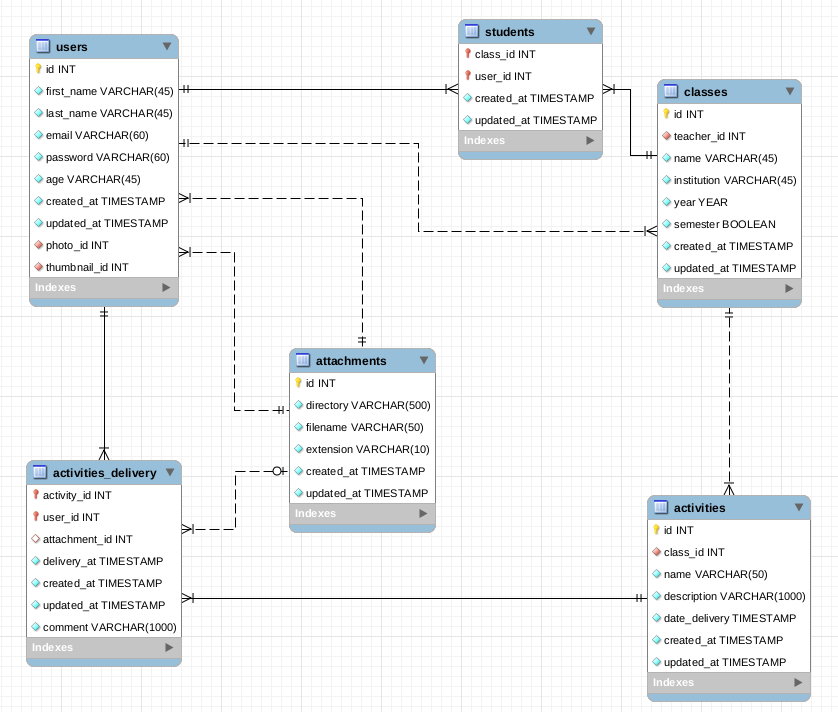
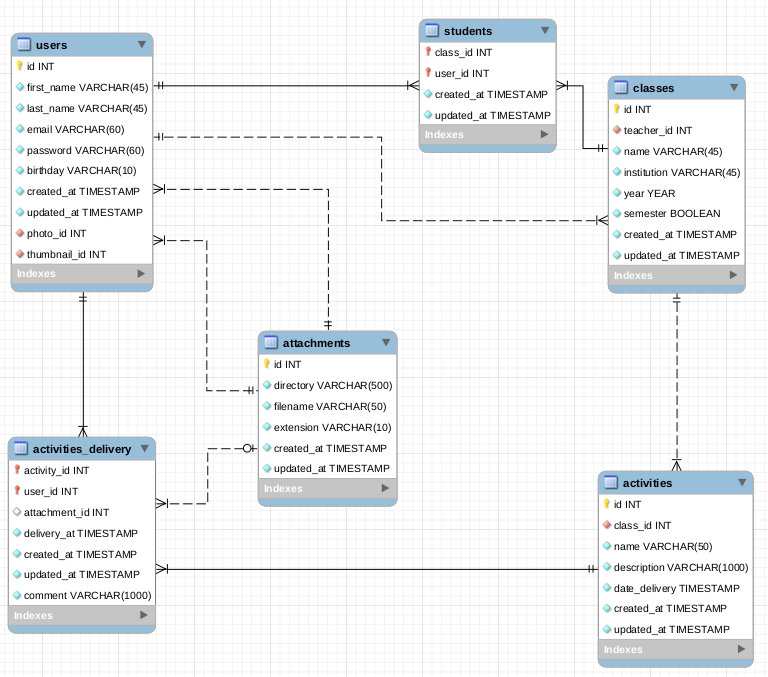
Alterado estrutura do User Alterado a documentação MER Foi alterado o atributo Age(idade) do User(usuario) para Birthday(data de nascimento), para melhor adequar ao front do sistema Foi implementado em UserDAO a função update Reorganizado os documentos no documentation

diff --git a/src/model/bean/User.php b/src/model/bean/User.php
@@ -9,19 +9,19 @@
     private $lastName;
     private $email;
     private $password;   // Nao sei se a senha deve ficar aqui !!!!
-    private $age;
+    private $birthday;   // Format dd/mm/aaaa Ex: 03/10/1997 -> 03 de outubro de 1997
     private $created_at; // Object Timestamp
     private $updated_at; // Object Timestamp
     private $photo;      // Object Attachment -> Profile Photo
     private $thumbnail;  // Object Attachment -> Low resolution profile photo
 
-    public function __construct($id , $firstName , $lastName , $email , $password , $age , $created_at , $updated_at , $photo , $thumbnail) {
+    public function __construct($id , $firstName , $lastName , $email , $password , $birthday , $created_at , $updated_at , $photo , $thumbnail) {
       $this->setId($id);
       $this->setFirstName($firstName);
       $this->setLastName($lastName);
       $this->setEmail($email);
       $this->setPassword($password);
-      $this->setAge($age);
+      $this->setBirthday($birthday);
       $this->setCreated_at();
       $this->setUpdated_at();
       $this->setPhoto($photo);
@@ -35,11 +35,12 @@
       $this->setLastName($lastName);
       $this->setEmail($email);
       $this->setPassword($password);
-      $this->setAge($age);
+      $this->setBirthday($age);
       $this->setCreated_at();
       $this->setUpdated_at();
 
-      $this->photo = new Attachment(ProfileAttachmentManager::PATH_PROFILE_PHOTO , "default" , "png");
+      $this->photo     = new Attachment(ProfileAttachmentManager::PATH_PROFILE_PHOTO     , "default" , "png");
+      $this->thumbnail = new Attachment(ProfileAttachmentManager::PATH_PROFILE_THUMBNAIL , "default" , "png");
     }
     public function __construct($name, $email, $password){
       $this->setFirstName($name);
@@ -48,7 +49,10 @@
       $this->setPassword($password);
       $this->setCreated_at();
       $this->setUpdated_at();
-      $this->setAge(0);
+      $this->setBirthday(0);
+
+      $this->photo     = new Attachment(ProfileAttachmentManager::PATH_PROFILE_PHOTO     , "default" , "png");
+      $this->thumbnail = new Attachment(ProfileAttachmentManager::PATH_PROFILE_THUMBNAIL , "default" , "png");
     }
 
     public function changePhoto($tmp_photo) {
@@ -96,16 +100,12 @@
       $this->password = $password;
     }
 
-    public function getAge() {
-      return $this->age;
+    public function getBirthday() {
+      return $this->birthday;
     }
 
-    public function setAge($age) {
-      if ($age < 0 | $age >120) {
-        throw new WrongAgeException("Idade fora do padrão","Improbable age" , $age);
-      }else{
-        $this->age = $age;
-      }
+    public function setBirthday($birthday) {
+      $this->birthday = $birthday;
     }
 
     public function getCreated_At() {

diff --git a/src/model/dao/UserDAO.php b/src/model/dao/UserDAO.php
@@ -19,12 +19,12 @@
 
       $sql = "SELECT * FROM user WHERE email = '$objectUser->email'";
       if($conector->query($sql) === NULL){
-        $sql = 'INSERT INTO User (first_name , last_name , email, password , age , created_at , updated_at , photo_id , thumbnail) VALUES (?,?,?,?,?,?,?,?,?)';
+        $sql = 'INSERT INTO User (first_name , last_name , email, password , birthday , created_at , updated_at , photo_id , thumbnail_id) VALUES (?,?,?,?,?,?,?,?,?)';
         $stmt = $conector->prepare($sql);
 
 
 
-        $stmt->bind_param("ssssissii", $objectUser->getFirstName(), $objectUser->getLastName() , $objectUser->getEmail(), $objectUser->getPassword() , $objectUser->getAge() , $objectUser->getCreated_at() , $objectUser->getUpdated_at() , $objectUser->getPhoto()->getId() , $objectUser->getThumbnail()->getId() );
+        $stmt->bind_param("sssssssii", $objectUser->getFirstName(), $objectUser->getLastName() , $objectUser->getEmail(), $objectUser->getPassword() , $objectUser->getBirthday() , $objectUser->getCreated_at() , $objectUser->getUpdated_at() , $objectUser->getPhoto()->getId() , $objectUser->getThumbnail()->getId() );
 
         if (!$stmt) {
           throw new SQLException("Não foi possivel processar a query" , $stmt , $sql);
@@ -49,6 +49,20 @@
 
       //Refresh updated_at
       $objectUser->setUpdated_at();
+
+      $sql = "UPDATE User SET first_name = ? , last_name = ? , email = ? , password = ? , birthday = ? , created_at = ? , updated_at = ? , photo_id = ? , thumbnail_id = ? WHERE id = ? "
+      $stmt = $conector->prepare($sql);
+      $stmt->bind_param("sssssssiii",  $objectUser->getFirstName() , $objectUser->getLastName() , $objectUser->getEmail() , $objectUser->getPassword() , $objectUser->getBirthday() , $objectUser->getCreated_at() , $objectUser->getUpdated_at() , $objectUser->getPhoto()->getId() , $objectUser->getThumbnail()->getId() , $objectUser->getId() );
+
+      if (!$stmt) {
+        throw new SQLException("Não foi possivel processar a query" , $stmt , $sql);
+      }
+
+      $stmt->execute();
+
+      if (!$stmt) {
+        throw new SQLException("Não foi possivel executar a query" , $stmt , $sql);
+      }
 
     }
 
@@ -83,7 +97,7 @@
             $data["lastName"],
             $data["email"],
             $data["password"],
-            $data["age"],
+            $data["birthday"],
             $data["created_at"],
             $data["updated_at"],
             $photo,

diff --git a/src/model/dao/AttachmentDAO.php b/src/model/dao/AttachmentDAO.php
@@ -45,9 +45,9 @@
       //Refresh updated_at();
       $objectAttachment->setUpdated_at();
 
-      $sql = "UPDATE Attachment SET directory = ? , filename = ? , extension = ? , created_at = ? , updated_at = ? WHERE id = '$objectAttachment->getId()' "
+      $sql = "UPDATE Attachment SET directory = ? , filename = ? , extension = ? , created_at = ? , updated_at = ? WHERE id = ? "
       $stmt = $conector->prepare($sql);
-      $stmt->bind_param("sssss", $objectAttachment->getDirectory(), $objectAttachment->getFilename() , $objectAttachment->getExtension() , $objectAttachment->getCreated_at() , $objectAttachment->getUpdated_at() );
+      $stmt->bind_param("sssssi", $objectAttachment->getDirectory(), $objectAttachment->getFilename() , $objectAttachment->getExtension() , $objectAttachment->getCreated_at() , $objectAttachment->getUpdated_at() , $objectAttachment->getId() );
 
       if (!$stmt) {
         throw new SQLException("Não foi possivel processar a query" , $stmt , $sql);
